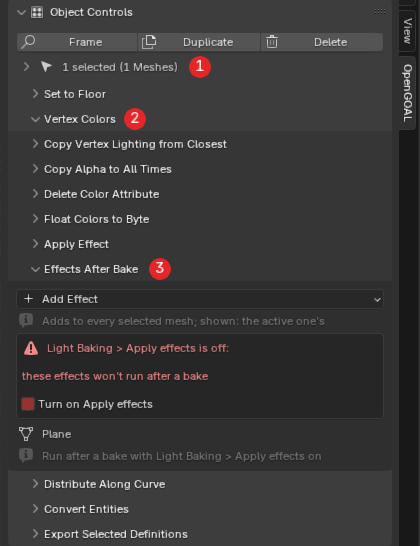
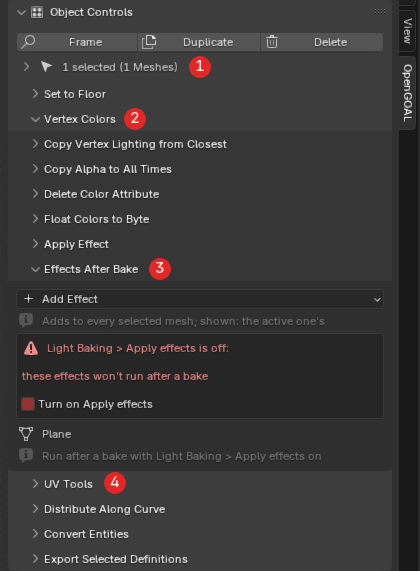
Docs: UV Tools (Object Controls guide, links from Geometry, index and README), Object Controls screenshot retaken with ④ UV Tools

diff --git a/docs/guide/object-controls.md b/docs/guide/object-controls.md
@@ -10,13 +10,15 @@ at first):
 - [The selection summary](#the-selection-summary) (① in the screenshot)
 - [Set to Floor](#set-to-floor)
 - [Vertex Colors](#vertex-colors) (② and ③ in the screenshot)
+- [UV Tools](#uv-tools) (④ in the screenshot)
 - [Distribute Along Curve](#distribute-along-curve)
 - [Convert Entities](#convert-entities)
 - [Export Selected Definitions](#export-selected-definitions)
 
 ![Object Controls](images/object-controls.png)
 
-The tools that move or change objects work in Object Mode and can be undone with Ctrl+Z.
+The tools that move or change objects work in Object Mode (the UV Tools also in Edit Mode) and can be undone
+with Ctrl+Z.
 
 ## Frame, Duplicate and Delete
 
@@ -100,6 +102,56 @@ Colors to Byte**, **Apply Effect** and **Effects After Bake** (③, effects that
 change `BakedLight` and every time of day layer at once.
 
 They are explained in full on the Lighting page: [Vertex Colors tools](lighting.md#vertex-colors-tools).
+
+## UV Tools
+
+**Object Controls › UV Tools** places the texture coordinates (UVs) of the selected meshes, in ways that suit
+level geometry. It has three sub-panels: **Fit Faces on UV**, **Cube Project** and **Randomize UV**.
+
+- In **Object Mode** a tool changes every face of the selected meshes; in **Edit Mode**, only the selected faces.
+- It writes the mesh's active UV map (a mesh without one gets a new `UVMap`).
+- Faces are oriented in the world: on walls the texture stands upright, on floors and ceilings it follows the world
+  X and Y axes.
+- Ctrl+Z undoes it. The button shows how many meshes it will change.
+
+### Fit Faces on UV
+
+Puts each face on the whole UV square, so one face shows the whole texture once: bricks, crates, panels ...
+Quads take the 4 corners. Triangles take 3 corners, with their largest angle on the (0, 0) corner. N-gons (5 or
+more corners) are left as they are.
+
+| Option | Default | What it does |
+|---|---|---|
+| **Placement** | Spread | **Spread**: connected faces stay connected, each on its own square, like tiles on a grid. Faces are first grouped by which side they face (as in a cube projection), so a mesh with depth still works. The groups are placed in a row with an empty tile between them, so you can tell them apart in the UV Editor. **Overlap**: every face on the same 0-1 square. |
+| **Triangles as Quads** | off | Two triangles that share their longest edge take the 4 corners together, like the quad they were cut from. |
+| **Scale** | 1.0 | Scales the whole result. 2 repeats the texture twice across each face. |
+| **Rotation** | 0° | Rotates the whole result, e.g. 90° to turn the texture sideways. |
+| **Pivot** | Corner | The point Scale and Rotation turn around: **Corner** (0, 0) or **Center** (0.5, 0.5). |
+| **Fit Faces (N meshes)** | | Does it. |
+
+### Cube Project
+
+Projects each face along its closest world axis (X, Y or Z), at the same scale everywhere: a quick way to texture
+walls, floors and blocks so the texture has the same size on all of them and lines up between separate meshes.
+
+| Option | Default | What it does |
+|---|---|---|
+| **Texture Size** | 4 m | The texture repeats every this many metres. |
+| **Cube Project (N meshes)** | | Does it. |
+
+Each group of connected faces is then moved by whole tiles next to the UV origin, so a mesh far from the world
+centre doesn't end up with huge UV numbers. Because the texture repeats, this doesn't change how it looks.
+
+### Randomize UV
+
+Moves every UV point a little, at random, to break up a texture that repeats too visibly. Faces that are connected
+in the UV stay connected (in Edit Mode, a point shared with an unselected face moves that face's corner too).
+
+| Option | Default | What it does |
+|---|---|---|
+| **Max Distance** | 0.05 | How far a point can move, in UV units (1 = the whole texture). |
+| **Seed** | 0 | Change it for another random result. |
+| **Randomize (N meshes)** | | Does it. Each click with the same seed moves the points again. |
 
 ## Distribute Along Curve
 

diff --git a/docs/guide/README.md b/docs/guide/README.md
@@ -22,7 +22,7 @@ New here? Read **Part 1** in order. The other parts can be read in any order.
 | [Volumes & triggers](volumes-and-triggers.md) | VOL_ meshes and their links, water, trigger volumes |
 | [Audio](audio.md) | Sound banks, music, sound emitters |
 | [Lighting](lighting.md) | Light baking, time of day, colour palette, Vertex Colors tools, Actor Light |
-| [Object Controls](object-controls.md) | Selection summary, duplicate / delete, Set to Floor, Distribute Along Curve, Convert Entities, Export Selected Definitions |
+| [Object Controls](object-controls.md) | Selection summary, duplicate / delete, Set to Floor, UV Tools, Distribute Along Curve, Convert Entities, Export Selected Definitions |
 | [Tasks](tasks.md) | Custom power cells / scout flies and their text |
 | [Edited actors & GOAL code](edited-actors-and-goal-code.md) | Vanilla actors made to work in custom levels, your own code |
 | [Importing](importing.md) | Game models and textures, existing levels' files |

diff --git a/docs/guide/images/README.md b/docs/guide/images/README.md
@@ -14,4 +14,4 @@ OpenGOAL tab) with the numbers listed below drawn in red. `hero.png` (Blender ne
 | `spawn.png` | Spawn Objects with a category open and an actor picked | ① search ② category tiles ③ list ④ the picked actor's settings ⑤ Spawn |
 | `actor.png` | Object Settings with an actor selected (several sub-panels open) | ① Actor Settings ② a ⚠ count ③ Entity Links ④ Path ⑤ Custom Lumps ⑥ GOAL Code |
 | `light-baking.png` | Light Baking with Bake options and Time of day open | ① Bake ② Bake options ③ Time of day list ④ Color Quantisation |
-| `object-controls.png` | Object Controls with Vertex Colors open | ① selection summary ② Vertex Colors tools ③ Effects After Bake |
+| `object-controls.png` | Object Controls with Vertex Colors open | ① selection summary ② Vertex Colors tools ③ Effects After Bake ④ UV Tools |

diff --git a/docs/guide/geometry.md b/docs/guide/geometry.md
@@ -66,6 +66,9 @@ To use the game's own textures, open **Import › Game Textures** with a mesh se
 click a texture, then **Apply to Selected** (in Edit Mode: **Apply to Selected Faces**). It makes an `og_<texture>`
 material. The textures must have been extracted by the decompiler first. See [Importing](importing.md).
 
+To place the textures, [Object Controls › UV Tools](object-controls.md#uv-tools) can fit each face on the whole
+texture, project the texture at the same size on every wall and floor (**Cube Project**), or randomize the UVs.
+
 ### Texture Remap
 
 Some things in the game are drawn with generic textures that each vanilla level remaps to its own: Flut Flut's eyes,

diff --git a/README.md b/README.md
@@ -44,6 +44,8 @@ starts the game at your checkpoint.
   orb count), checkpoints and continue points, **cameras** with trigger volumes, hints, music zones,
   sound emitters, water volumes, load boundaries between levels.
 - **Custom tasks**: your own power cells and scout flies with their game text.
+- **UV Tools**: fit faces on the texture (as a grid or overlapping), cube projection at a set texture size,
+  randomized UVs.
 - **Project settings**: the checkpoints New Game, retail boot and Quit to menu go to, and the Discord
   status of your mod.
 
